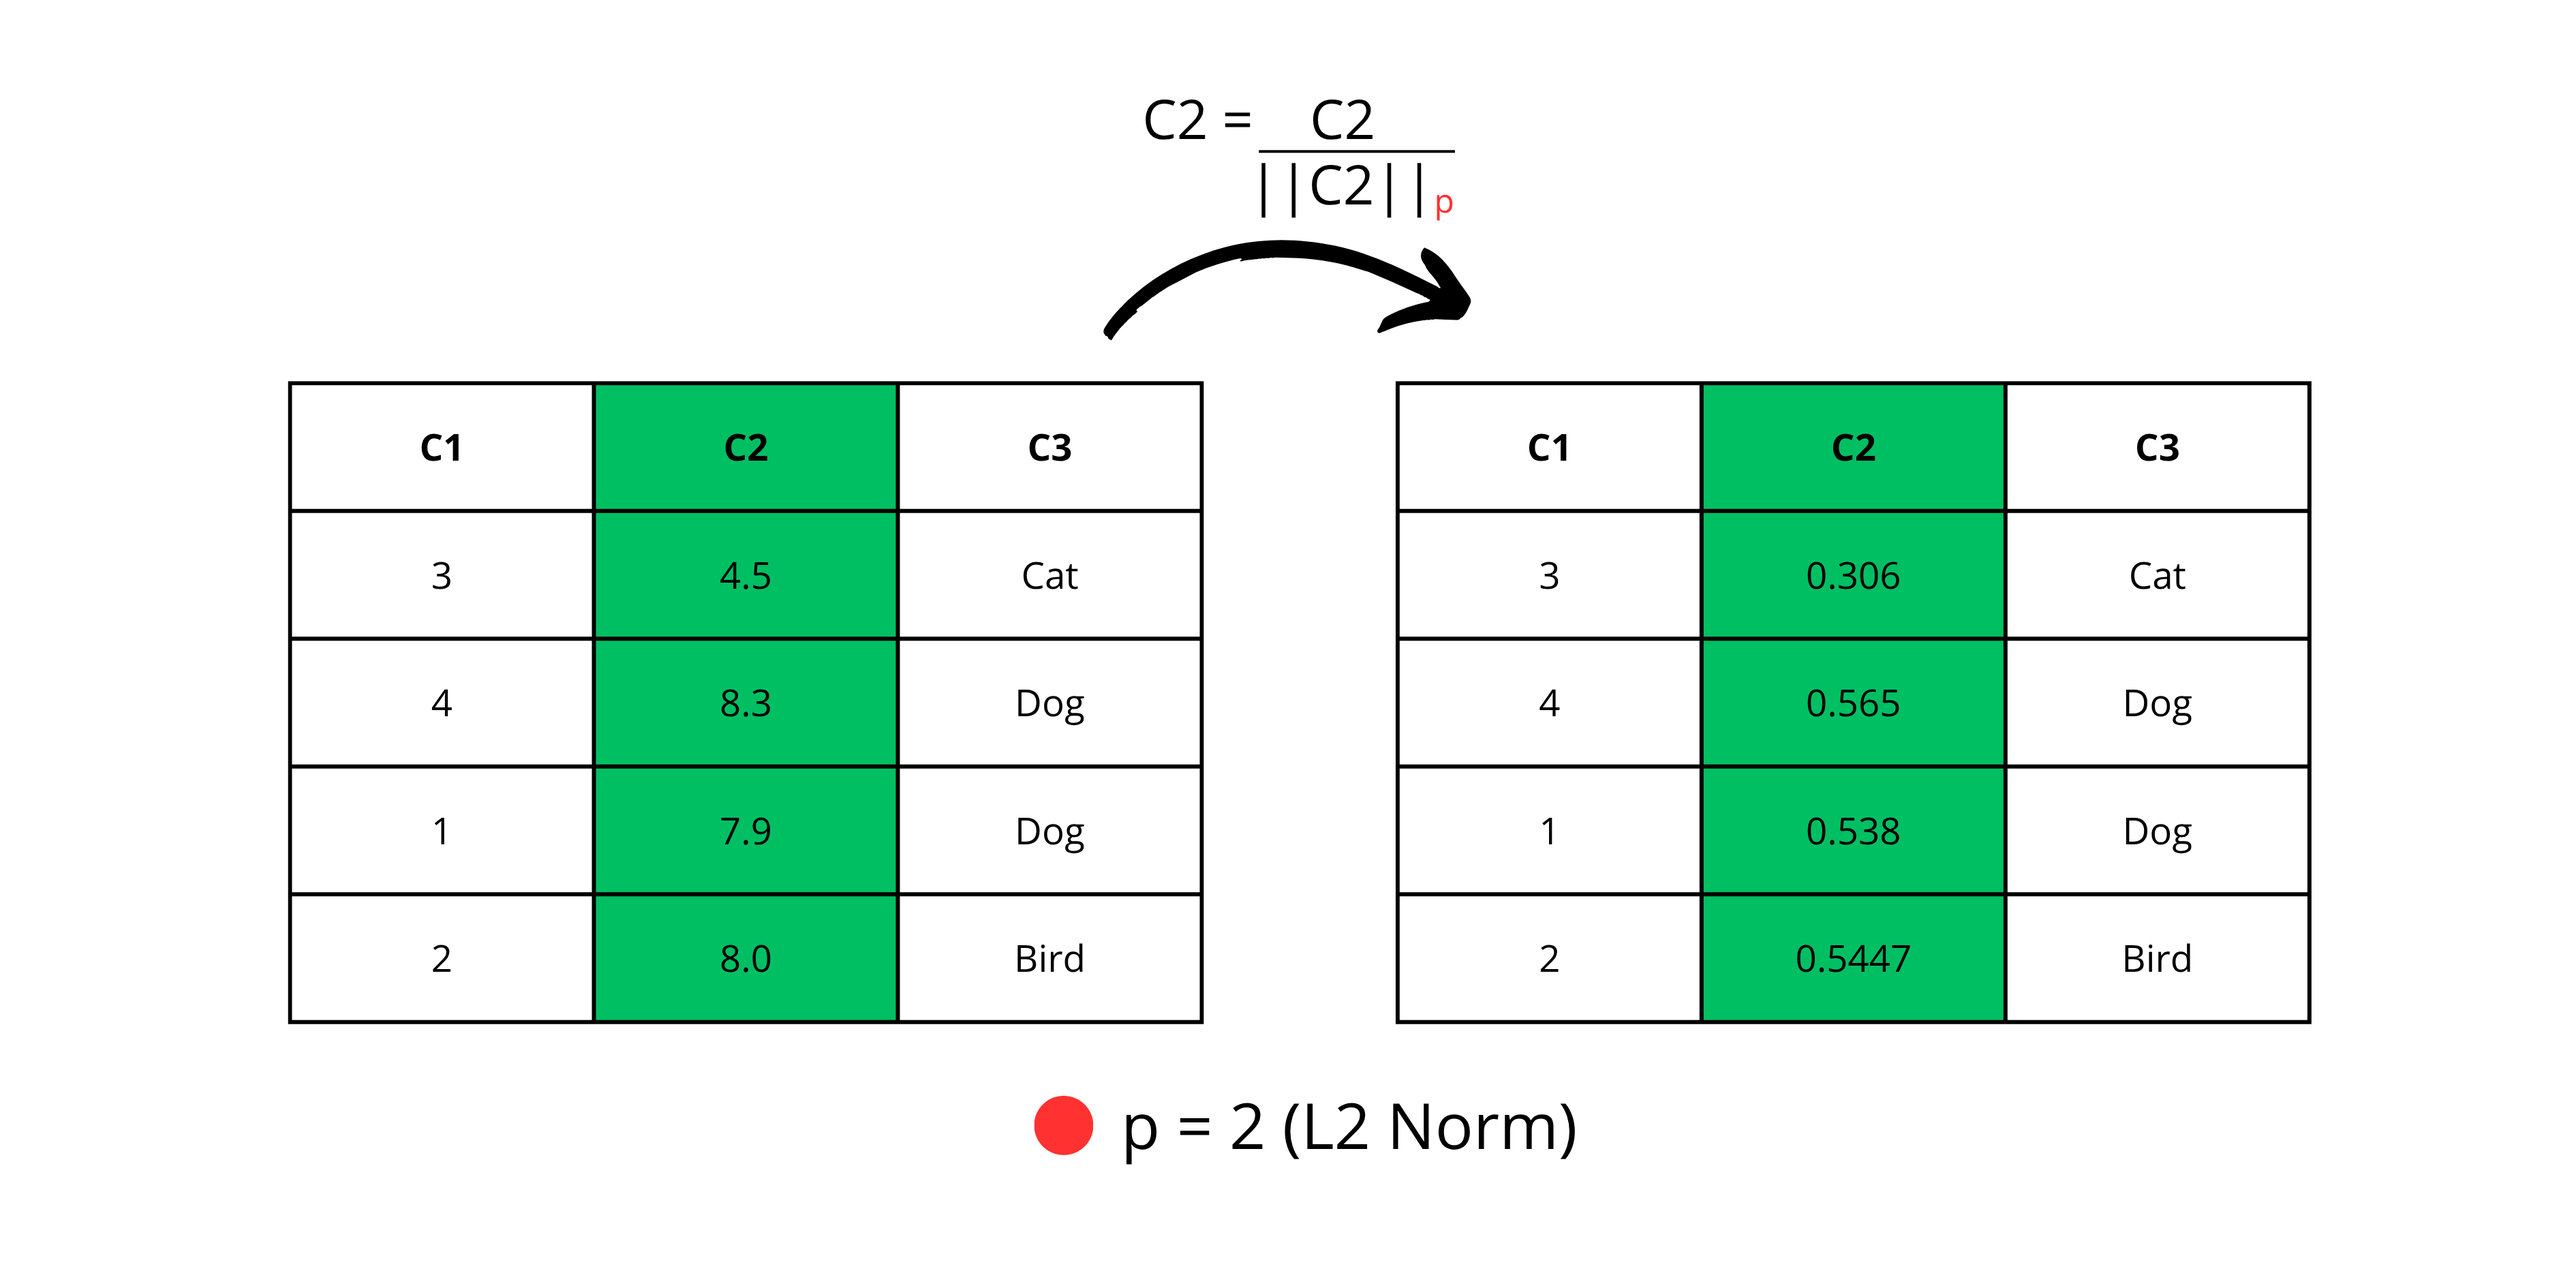
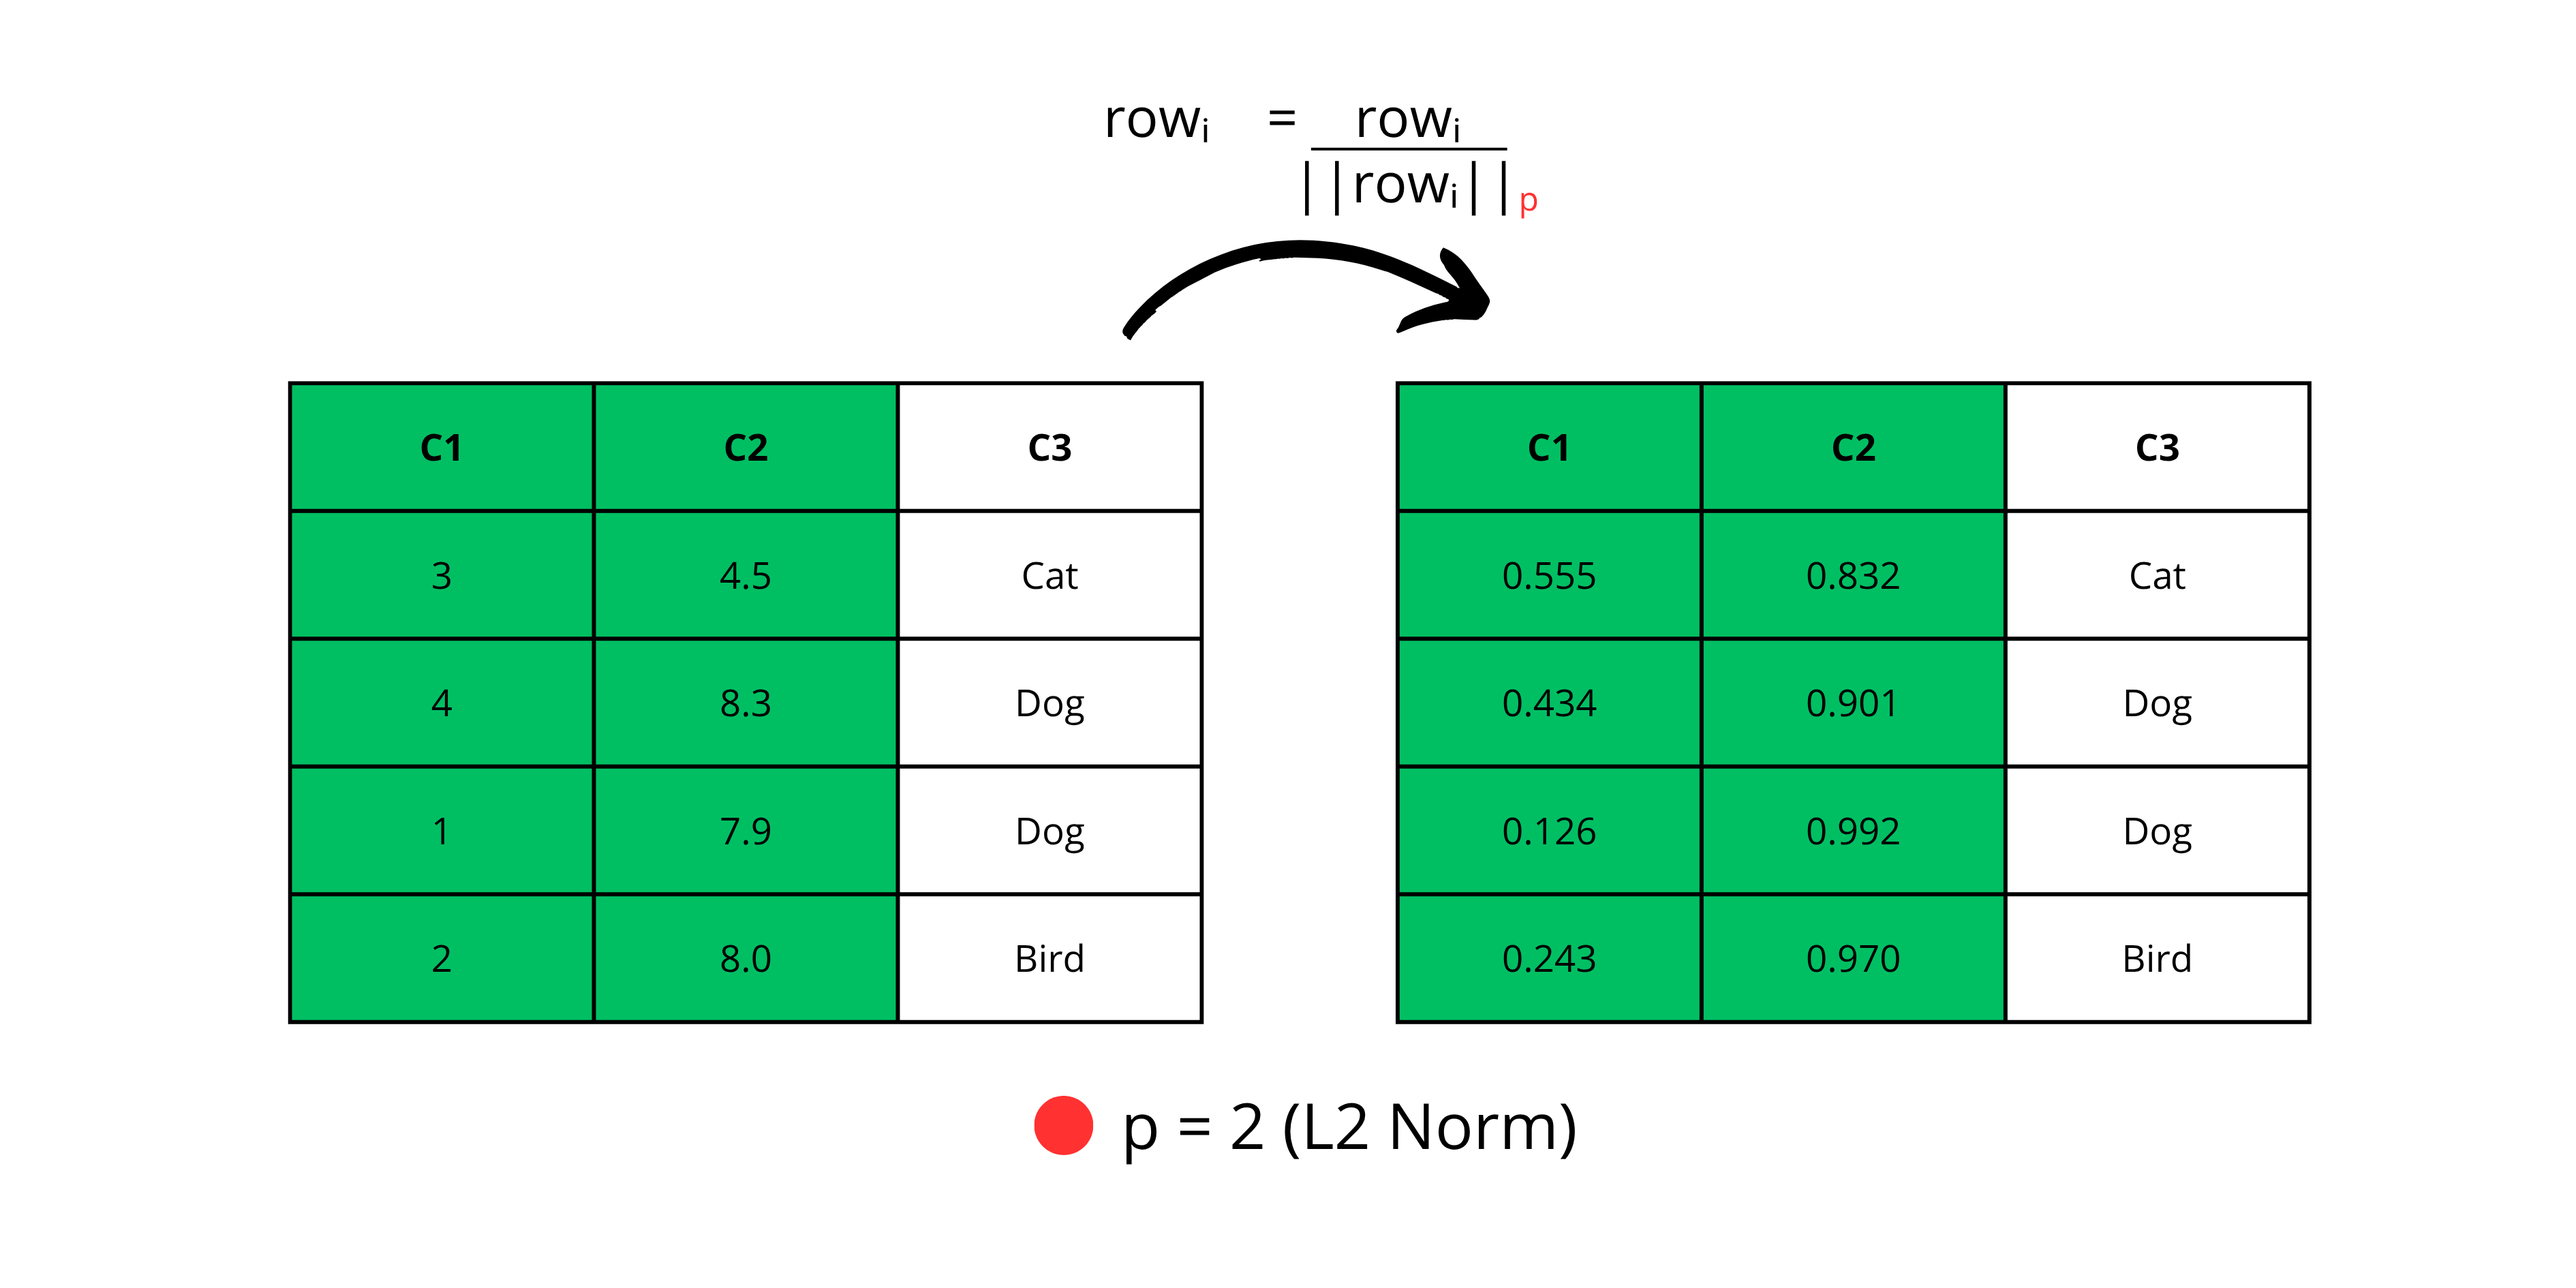
fix: clarify Normalizer is row wise in display name and description
Rename display name to "Row Wise Normalizer" and rewrite the description to state that normalization is applied per row across the selected columns, warning that a single column collapses to plus or minus 1. Update the preview image to reflect row wise normalization.

diff --git a/DashAI/back/converters/scikit_learn/normalizer.py b/DashAI/back/converters/scikit_learn/normalizer.py
@@ -65,18 +65,36 @@ class Normalizer(ScalingAndNormalizationConverter, SklearnWrapper, NormalizerOpe
 
     SCHEMA = NormalizerSchema
     DESCRIPTION = MultilingualString(
-        en="Normalize samples individually to unit norm.",
-        es="Normaliza muestras individualmente a norma unitaria.",
-        pt="Normaliza amostras individualmente para norma unitária.",
-        de="Stichproben individuell auf Einheitsnorm normalisieren.",
-        zh="将每个样本单独归一化为单位范数。",
+        en=(
+            "Normalize each row (sample) to unit norm across the selected columns. "
+            "Select two or more columns; a single column collapses to plus or minus 1."
+        ),
+        es=(
+            "Normaliza cada fila (muestra) a norma unitaria a lo largo de las columnas "
+            "seleccionadas. Selecciona dos o más columnas; una sola columna colapsa a "
+            "más o menos 1."
+        ),
+        pt=(
+            "Normaliza cada linha (amostra) para norma unitária ao longo das colunas "
+            "selecionadas. Selecione duas ou mais colunas; uma única coluna colapsa "
+            "para mais ou menos 1."
+        ),
+        de=(
+            "Normalisiert jede Zeile (Stichprobe) über die ausgewählten Spalten auf "
+            "Einheitsnorm. Mindestens zwei Spalten auswählen; eine einzelne Spalte "
+            "kollabiert zu plus oder minus 1."
+        ),
+        zh=(
+            "在所选列上将每一行（样本）归一化为单位范数。"
+            "请选择两列或以上；单列会收敛为正负 1。"
+        ),
     )
     DISPLAY_NAME = MultilingualString(
-        en="Normalizer",
-        es="Normalizador",
-        pt="Normalizador",
-        de="Normalisierer",
-        zh="归一化器",
+        en="Row Wise Normalizer",
+        es="Normalizador por filas",
+        pt="Normalizador por linhas",
+        de="Zeilenweiser Normalisierer",
+        zh="按行归一化器",
     )
     IMAGE_PREVIEW = "normalizer.png"
 
